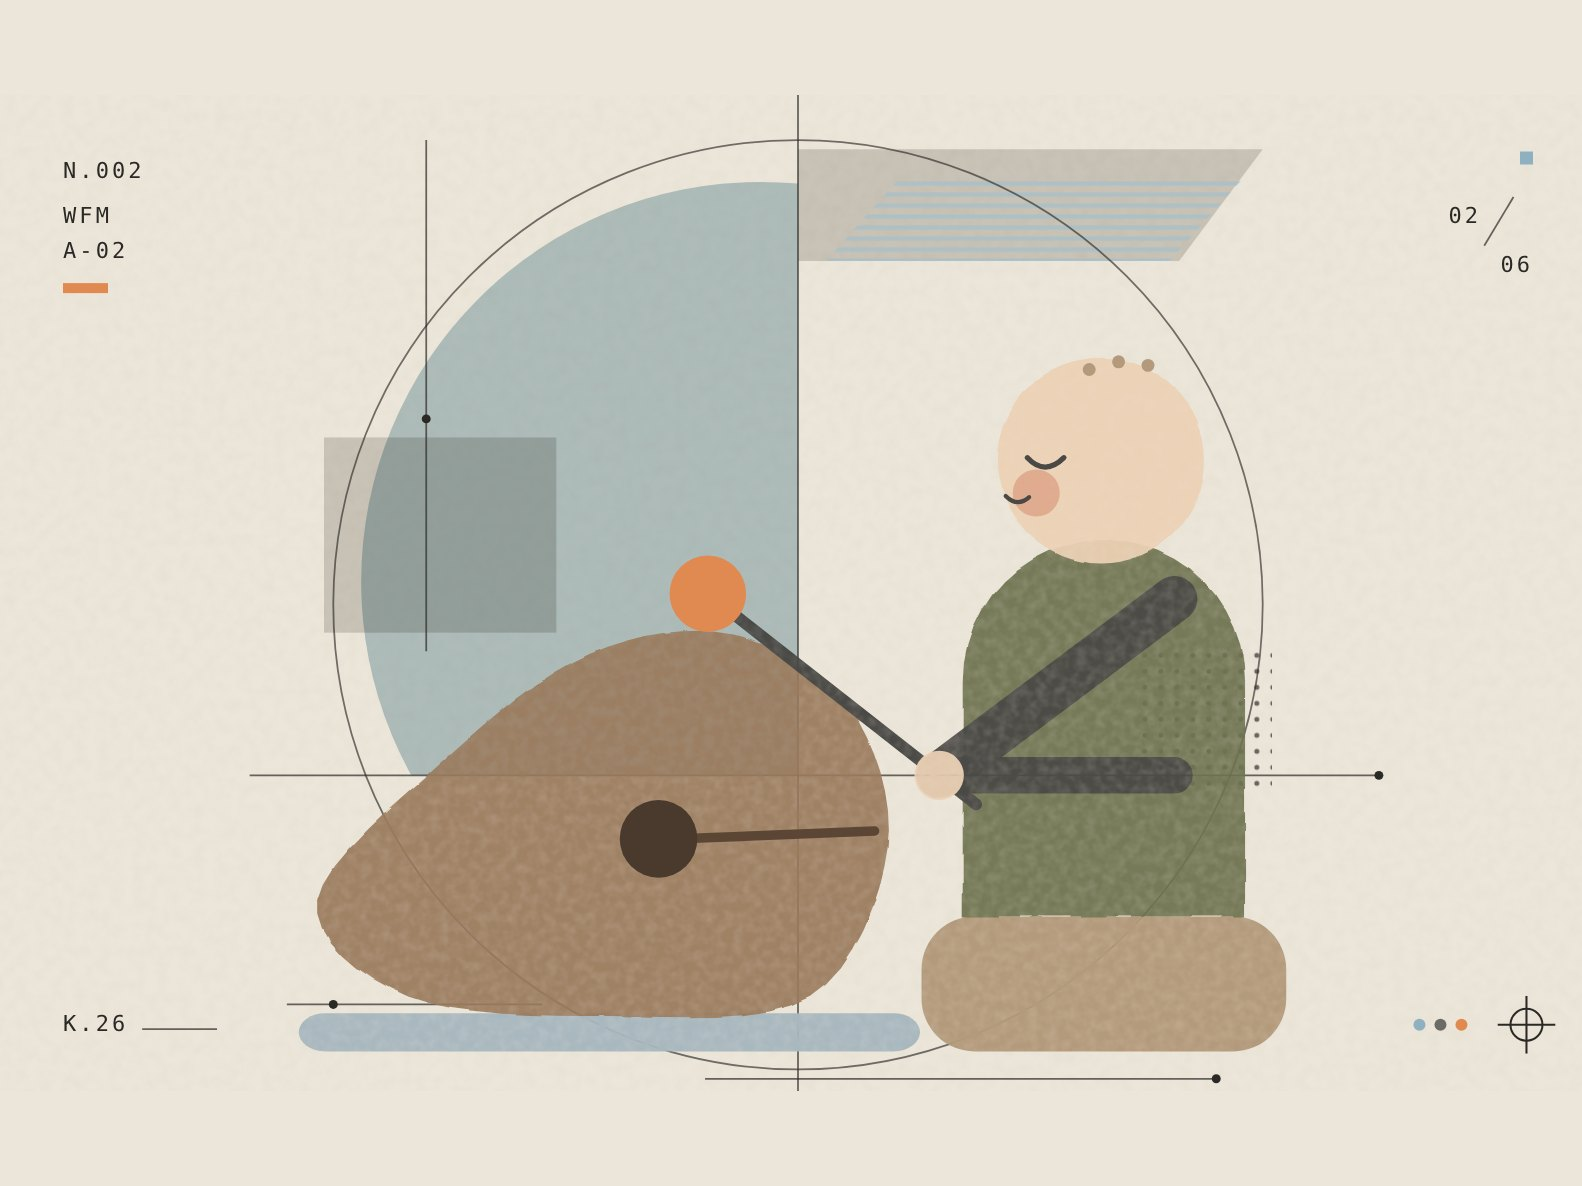
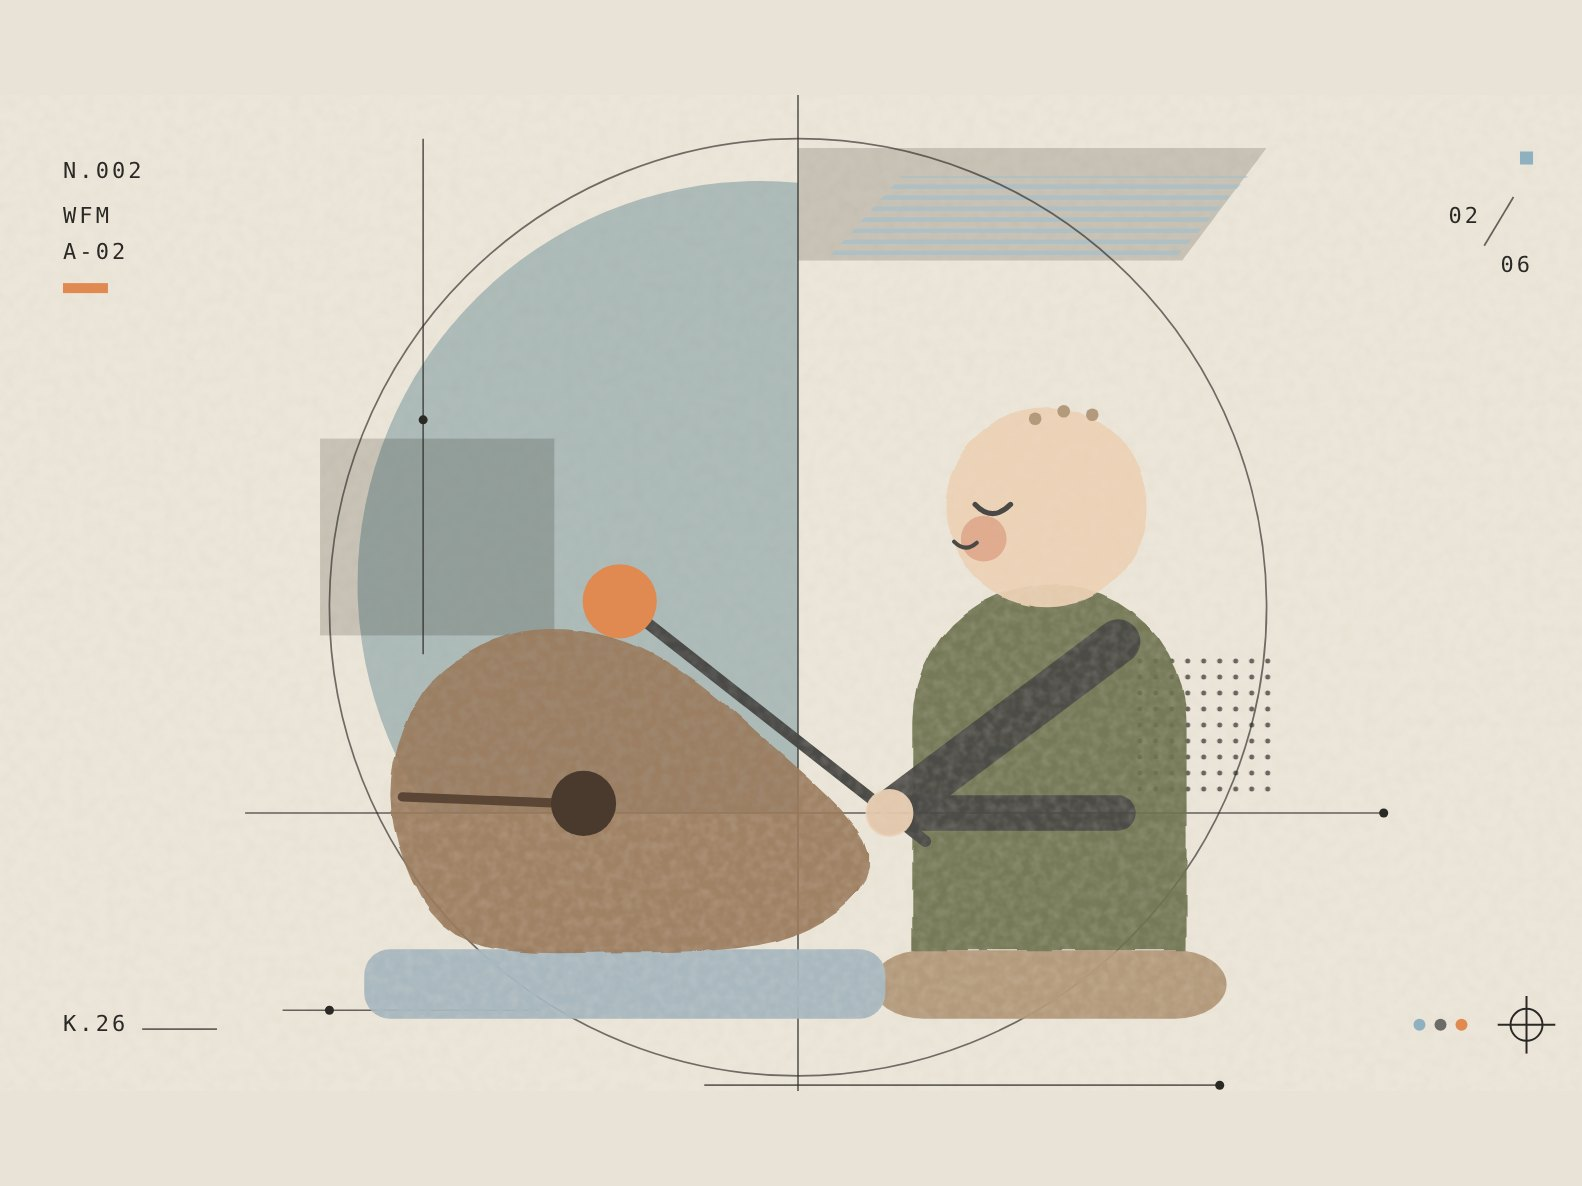
Linkages: wooden fish facing the other way, fish to monk about 3:1 by area
Claude-Session: https://claude.ai/code/session_01NPfPdtJwC2J2tRpUdWuEC5

diff --git a/projects/linkage/index.html b/projects/linkage/index.html
@@ -941,13 +941,13 @@ function toneize(svg,inkSel){plateize(svg,inkSel);svg.classList.add('tone');}
 
 const QR=["111111101010100000111101001111111", "100000101101101011001111101000001", "101110100010011100110000001011101", "101110101110100000100011101011101", "101110100010110010100100101011101", "100000100111101111100100101000001", "111111101010101010101010101111111", "000000001100100111110001000000000", "101101110001101111101100001001011", "000100001001011011011111001101101", "011110101110010010100011110111011", "001000011111000011001000001101001", "001001100010001010011000110111011", "010010001001101001001000100001110", "010110110000101001011000101100100", "010010000110011100100101111101100", "100000101010000000101100011011100", "010000011001101100100111101011011", "001110111011110100101010011110110", "110101000001001011100010001010000", "111010111010111110000010000101110", "111000001101111110001001001001101", "000001111110010101111111011000011", "010111001011110100001011110111001", "100100100110011001010011111110011", "000000001101001110010100100011010", "111111101101101001111101101010000", "100000101101010011111001100011100", "101110100101110111110011111110101", "101110101101101010010011100100011", "101110101110000111001001001101000", "100000100111101001001011100110001", "111111101001110011110101000011100"];
 /* ── 敲木魚・小和尚：D（肚子）在原點、A（肩膀）在右上 (2, 3)；長度 cm，y 向上 ── */
-const GA=[2,3],DEF={a:2,b:4,c:5},OFF=-75*Math.PI/180,MAL=5,TAIL=0.8,HEADR=0.65,FISH={rx:2.05,ry:1.6},TH0=Math.PI/2,U=(()=>{const v=[-0.25,-1],l=Math.hypot(...v);return [v[0]/l,v[1]/l];})();
+const GA=[2,3],DEF={a:2,b:4,c:5},OFF=-75*Math.PI/180,MAL=6,TAIL=0.8,HEADR=0.65,FISH={rx:2.05,ry:1.6},TH0=Math.PI/2,U=(()=>{const v=[-0.25,-1],l=Math.hypot(...v);return [v[0]/l,v[1]/l];})();
 const ROBE=[[-0.5,3.7],[0.6,4.35],[2.2,4.4],[3.3,3.8],[3.85,1.8],[4.05,-1.0],[3.6,-2.5],[1.5,-2.75],[-2.3,-2.7],[-3.2,-2.25],[-3.05,-1.45],[-1.6,-1.05],[-1.05,0.9],[-0.85,2.8]];
 const HEAD={c:[0.75,5.35],r:1.75};
 /* 木魚側面：左邊圓鼓、往右收尖，側面一道魚嘴縫，縫底一個圓孔（y 向上，原點在木魚中心） */
 const FISH_CP=[[-2.15,-0.15],[-1.85,0.95],[-0.95,1.5],[0.15,1.35],[1.25,0.55],[2.25,-0.55],[1.55,-1.3],[0,-1.45],[-1.55,-1.3]];
-const FS=2.2;let FISH_P=null;const fishPts=()=>FISH_P||(FISH_P=smoothPts(FISH_CP,8).map(q=>[-q[0]*FS,q[1]*FS]));
-const FISH_TOP=()=>fishPts().reduce((m,q)=>q[1]>m[1]?q:m);
+const FS=1.9;let FISH_P=null;const fishPts=()=>FISH_P||(FISH_P=smoothPts(FISH_CP,8).map(q=>[q[0]*FS,q[1]*FS]));
+const FISH_TOP=()=>fishPts().reduce((m,q)=>q[1]+0.3*q[0]>m[1]+0.3*m[0]?q:m);
 /* 平滑曲線（Catmull–Rom），讓身體圓一點 */
 function smoothPts(P,n=8){const out=[],N=P.length;for(let i=0;i<N;i++){const p0=P[(i-1+N)%N],p1=P[i],p2=P[(i+1)%N],p3=P[(i+2)%N];
   for(let k=0;k<n;k++){const t=k/n,t2=t*t,t3=t2*t;out.push([0,1].map(j=>0.5*((2*p1[j])+(-p0[j]+p2[j])*t+(2*p0[j]-5*p1[j]+4*p2[j]-p3[j])*t2+(-p0[j]+3*p1[j]-3*p2[j]+p3[j])*t3)));}}return out;}
@@ -957,7 +957,7 @@ function monkFace(o){const c=HEAD.c,x=c[0],y=c[1];
   return {eye:`M${x-1.25} ${-(y+0.05)}q.3 .32 .62 0`,cheek:[x-1.1,y-0.55,0.32],mouth:`M${x-1.62} ${-(y-0.6)}q.2 .2 .4 .02`,
     dots:[[x-0.2,y+1.55],[x+0.3,y+1.68],[x+0.8,y+1.62]],ear:[x+0.6,y-0.2,0.42],sash:`M-0.9 -3.9L3.6 0.6`};}
 function fishFace(F){const x=F[0],y=F[1];
-  return {path:'M'+fishPts().map(q=>f3(x+q[0])+' '+f3(-(y+q[1]))).join('L')+'Z',mouth:`M${f3(x+2.05*FS)} ${f3(-(y-0.02*FS))}L${f3(x+0.55*FS)} ${f3(-(y-0.08*FS))}`,eye:[x+0.38*FS,y-0.08*FS,0.3*FS]};}
+  return {path:'M'+fishPts().map(q=>f3(x+q[0])+' '+f3(-(y+q[1]))).join('L')+'Z',mouth:`M${f3(x-2.05*FS)} ${f3(-(y-0.02*FS))}L${f3(x-0.55*FS)} ${f3(-(y-0.08*FS))}`,eye:[x-0.38*FS,y-0.08*FS,0.3*FS]};}
 function fishFaceOld(F){const x=F[0],y=F[1];
   return {mouth:`M${f3(x-1.95)} ${f3(-(y-0.15))}Q${f3(x-1.0)} ${f3(-(y-0.75))} ${f3(x-0.15)} ${f3(-(y-0.1))}`,eye:[x-0.75,y+0.45,0.26],glint:[x-0.82,y+0.53,0.08],
     scales:`M${f3(x+0.35)} ${f3(-(y+0.75))}q.35 .3 .7 0M${f3(x+0.55)} ${f3(-(y+0.15))}q.35 .3 .7 0M${f3(x+0.3)} ${f3(-(y-0.45))}q.35 .3 .7 0`,
@@ -1037,7 +1037,7 @@ function view(svg,opt={}){
         E.feye.setAttribute('cx',ff.eye[0]);E.feye.setAttribute('cy',-ff.eye[1]);E.feye.setAttribute('r',ff.eye[2]);
         const pb=F[1]-1.45*FS;E.fpad.setAttribute('x',F[0]-2.4*FS);E.fpad.setAttribute('y',-pb-0.05);E.fpad.setAttribute('width',4.8*FS);E.fpad.setAttribute('height',Math.max(0.5,pb-an.floor+0.05));E.fpad.style.display='';
         E.fishG.style.transformOrigin=`${F[0]}px ${-pb}px`;E.fishG.style.display='';
-        E.plus.setAttribute('x',F[0]-1.5);E.plus.setAttribute('y',-F[1]-1.8*FS);E.plus2.setAttribute('x',F[0]-1.41);E.plus2.setAttribute('y',-F[1]-1.8*FS+.06);}
+        E.plus.setAttribute('x',F[0]-1.6);E.plus.setAttribute('y',-F[1]-1.7*FS-0.9);E.plus2.setAttribute('x',F[0]-1.51);E.plus2.setAttribute('y',-F[1]-1.7*FS-0.84);}
       else{E.fishG.style.display='none';E.fpad.style.display='none';}
       const L=an.list;E.trace.setAttribute('d',L.length?'M'+L.filter((_,i)=>i%4===0).map(g=>f3(g.H[0])+' '+f3(-g.H[1])).join('L'):'');
       this.draw();},
@@ -1067,14 +1067,14 @@ function knock(){if(!soundOn)return;try{AC=AC||new (window.AudioContext||window.
 
 /* ── 模擬器 ── */
 const st={s:{...DEF},playing:!reduce,speed:0.5};
-const hero=view($('hero'),{vb:[-14.4,-12,20.2,18],noSkel:true});
-const main=view($('stage'),{vb:[-13.8,-11.4,19,16.8]});
-const qv=view($('fig-quiz'),{vb:[-13.8,-11.6,19,17]});
+const hero=view($('hero'),{vb:[-12.9,-13.2,18.4,18.8],noSkel:true});
+const main=view($('stage'),{vb:[-12.3,-12.6,17.4,18]});
+const qv=view($('fig-quiz'),{vb:[-12.3,-12.8,17.4,18.2]});
 {const INK='.r-cush,.r-pad,.r-robe,.r-skin,.r-fish,.r-arm,.r-coup,.r-hand,.k-stick';toneize($('stage'),INK);toneize($('fig-quiz'),INK);}
 main.onHit=m=>{$('merit').textContent=m;knock();};
 hero.set(analyse(DEF));
 (function(){const an=analyse(DEF);const trace='M'+an.list.filter((_,i)=>i%4===0).map(g=>f3(g.H[0])+' '+f3(-g.H[1])).join('L');
-  const INK='.r-cush,.r-pad,.r-robe,.r-skin,.r-fish,.r-arm,.r-coup,.r-hand,.k-stick';plateize($('hero'),INK);plateOverlay($('hero'),[-14.4,-12,20.2,18],{no:'002',letters:'W / F / M',c:[-4.6,-2.6],R:8.4,ay:0});})();
+  const INK='.r-cush,.r-pad,.r-robe,.r-skin,.r-fish,.r-arm,.r-coup,.r-hand,.k-stick';plateize($('hero'),INK);plateOverlay($('hero'),[-12.9,-13.2,18.4,18.8],{no:'002',letters:'W / F / M',c:[-3.8,-3.4],R:8.6,ay:0});})();
 const keys=['a','b','c'];
 function syncInputs(){for(const k of keys){$('in-'+k).value=st.s[k];$('out-'+k).textContent=n1(st.s[k])+' cm';}}
 const KIND={ok:['轉得動','曲柄可以轉一整圈。 The crank turns all the way round.'],
@@ -1130,7 +1130,7 @@ function partsSVG(s,an,full){
   o+=outline([...base,{circle:[...M(p.disc.D),p.disc.R*10]}]);
   if(full){
     o+=outline([{pts:[M(p.coup.C),M(p.coup.B)]},{pts:[M(p.arm.A),M(p.arm.B)]},{pts:[M([Bm[0]-TAIL*md[0],Bm[1]+TAIL*md[1]]),M(Hs)],w:3.5},{circle:[...M(Hs),HEADR*10]},{pts:fishPts().map(q=>M([p.fish[0]+q[0],p.fish[1]-q[1]])),closed:true,w:0.6}]);
-    const Fs=M(p.fish),fx=Fs[0],fy=Fs[1];o+=`<path d="M${f2(fx+45)} ${f2(fy+0.4)}L${f2(fx+12)} ${f2(fy+1.8)}" fill="none" stroke="${INK}" stroke-width="1.4" stroke-linecap="round"/><circle cx="${f2(fx+8.4)}" cy="${f2(fy+1.8)}" r="4.5" fill="${INK}"/>`+T(Fs[0],Fs[1]+19.5,'木魚（不打孔，貼在底座的虛線段）',{size:2.6,anchor:'middle',fill:MID});
+    const Fs=M(p.fish),fx=Fs[0],fy=Fs[1];o+=`<path d="M${f2(fx-39)} ${f2(fy+0.4)}L${f2(fx-10.5)} ${f2(fy+1.5)}" fill="none" stroke="${INK}" stroke-width="1.4" stroke-linecap="round"/><circle cx="${f2(fx-7.2)}" cy="${f2(fy+1.5)}" r="4" fill="${INK}"/>`+T(Fs[0],Fs[1]+19.5,'木魚（不打孔，貼在底座的虛線段）',{size:2.6,anchor:'middle',fill:MID});
     const mf=monkFace(),Q=q=>M(at(D,q)),e0=Q([HEAD.c[0]-1.25,HEAD.c[1]+0.05]),ck=Q(mf.cheek),mo=Q([HEAD.c[0]-1.62,HEAD.c[1]-0.6]);
     o+=`<path d="M${f2(e0[0])} ${f2(e0[1])}q3 3.2 6.2 0" fill="none" stroke="${INK}" stroke-width="0.5" stroke-linecap="round"/><circle cx="${f2(ck[0])}" cy="${f2(ck[1])}" r="3.2" fill="none" stroke="${INK}" stroke-width="0.2" stroke-dasharray="0.6 0.6"/><path d="M${f2(mo[0])} ${f2(mo[1])}q2 2 4 .2" fill="none" stroke="${INK}" stroke-width="0.35" stroke-linecap="round"/>`;
     for(const d of mf.dots){const q=Q(d);o+=`<circle cx="${f2(q[0])}" cy="${f2(q[1])}" r="0.9" fill="${INK}"/>`;}
@@ -1176,8 +1176,8 @@ $('btn-ws-std').addEventListener('click',()=>{buildSheets(DEF);requestAnimationF
 
 
 /* 卡片小圖：用同一個畫面，停在敲下的那一刻 */
-(function(){const el=document.getElementById('card-fish');if(!el)return;const vb=[-18,-11.6,27.2,17];const v=view(el,{vb,noGrid:true,noSkel:true});const an=analyse(DEF);v.set(an);v.E.trace.style.display='none';v.idx=an.iMax;v.draw();
-  plateize(el,'.r-cush,.r-pad,.r-robe,.r-skin,.r-fish,.r-arm,.r-coup,.r-hand,.k-stick');plateOverlay(el,vb,{no:'002',letters:'W / F / M',c:[-4.4,-2.9],R:7.9,ay:0});})();
+(function(){const el=document.getElementById('card-fish');if(!el)return;const vb=[-17.6,-12.6,28,17.5];const v=view(el,{vb,noGrid:true,noSkel:true});const an=analyse(DEF);v.set(an);v.E.trace.style.display='none';v.idx=an.iMax;v.draw();
+  plateize(el,'.r-cush,.r-pad,.r-robe,.r-skin,.r-fish,.r-arm,.r-coup,.r-hand,.k-stick');plateOverlay(el,vb,{no:'002',letters:'W / F / M',c:[-3.6,-3.6],R:8.2,ay:0});})();
 /* ── 範例卡片：每張都是用自己的連桿算出來的符號 ── */
 document.querySelectorAll('.cards svg.glyph').forEach(s=>{plateize(s);const vb=s.getAttribute('viewBox').split(' ').map(Number),c=s.dataset.c.split(',').map(Number);plateOverlay(s,vb,{no:s.dataset.no,letters:s.dataset.l,c,R:+s.dataset.r,ay:+s.dataset.ay});});
 
